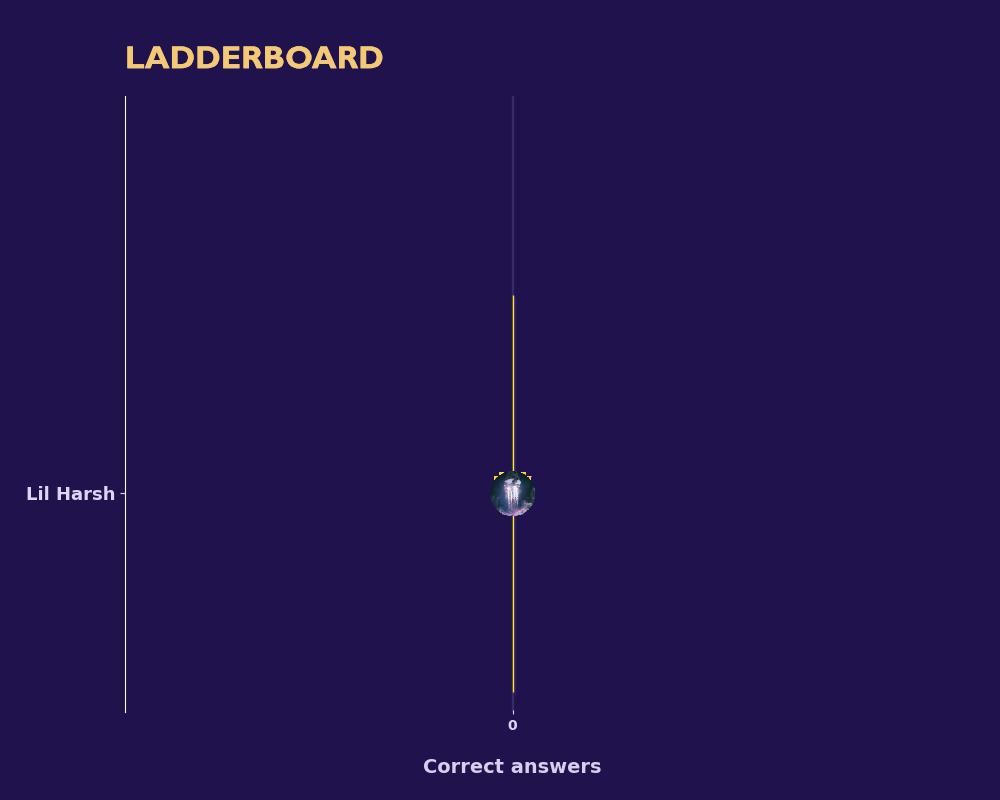
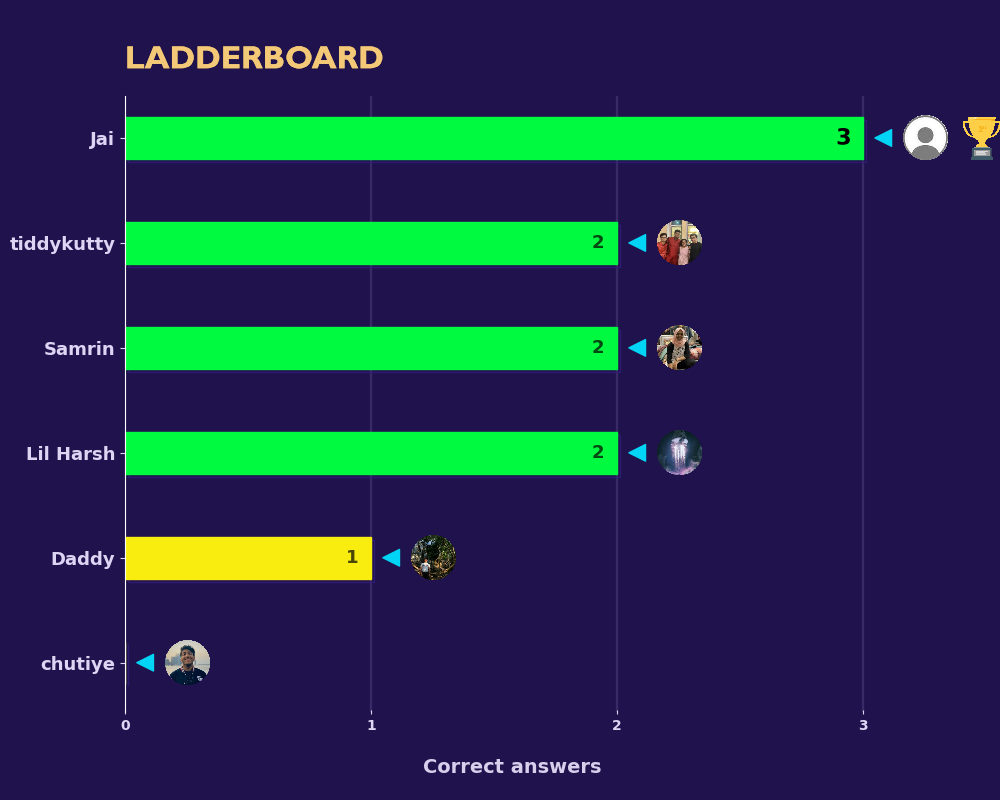
Fixed critical bug
Fixed bug where user's with no pp/hidden pp weren't assigned as nobody.png

Also added timeout to `get_file` as read timeout was happening

diff --git a/quiz.py b/quiz.py
@@ -54,7 +54,6 @@ def send_quiz(context: CallbackContext) -> None:
             pass
 
     # Support sending quiz to 12B only for now-
-    # TODO: Change this back to 12B
     for question, choice, answer in zip(questions, choices, answers):
         quiz = context.bot.send_poll(chat_id=group_ids['12b'], question=question, options=choice, is_anonymous=False,
                                      type=Poll.QUIZ, correct_option_id=answer, is_closed=False)
@@ -166,13 +165,15 @@ def pp(context: CallbackContext) -> None:
 
     for user_id, value in context.bot_data['quizizz'].items():
         pic = context.bot.get_user_profile_photos(user_id=user_id, offset=0, limit=1)
-        if not pic:  # If user doesn't have a pp
+
+        if not pic.photos:  # If user doesn't have a pp
             value['profile_pic'] = "profile_pics/nobody.jpg"
+            continue
 
         first_pic = pic.photos[0][0]
         file_id = first_pic.file_id
 
-        file = context.bot.get_file(file_id=file_id)
+        file = context.bot.get_file(file_id=file_id, timeout=15)
         file.download(custom_path=value['profile_pic'])  # Dl's as jpg
 
     context.dispatcher.persistence.flush()
@@ -225,7 +226,12 @@ def add_image(name: str, x: float or int, y: float or int, offset: float, zoom: 
         zoom - Controls how big the image is.
     """
     # Open image as numpy array-
-    with get_sample_data(f"{cwd}/profile_pics/{name}.png") as file:
+    try:
+        pic_file = get_sample_data(f"{cwd}/profile_pics/{name}.png")
+    except FileNotFoundError:  # When user has no profile pic, or changed their dp privacy settings
+        pic_file = get_sample_data(f"{cwd}/profile_pics/nobody.png")
+
+    with pic_file as file:
         arr_img = plt.imread(file, format='jpg')
 
     image_box = OffsetImage(arr_img, zoom=zoom)  # zoom changes the size of the image

diff --git a/main.py b/main.py
@@ -113,7 +113,7 @@ updater.job_queue.run_repeating(morning_wisher.morning_goodness, 86400, first=1)
 updater.job_queue.run_repeating(inline.get_clips, 60, first=1)  # Have to re-fetch clips since links expire
 updater.job_queue.run_repeating(send_quiz, 604800, first=1)  # Send quiz to 12B weekly
 
-# data_view()
+data_view()
 
 updater.start_polling()
 updater.idle()
